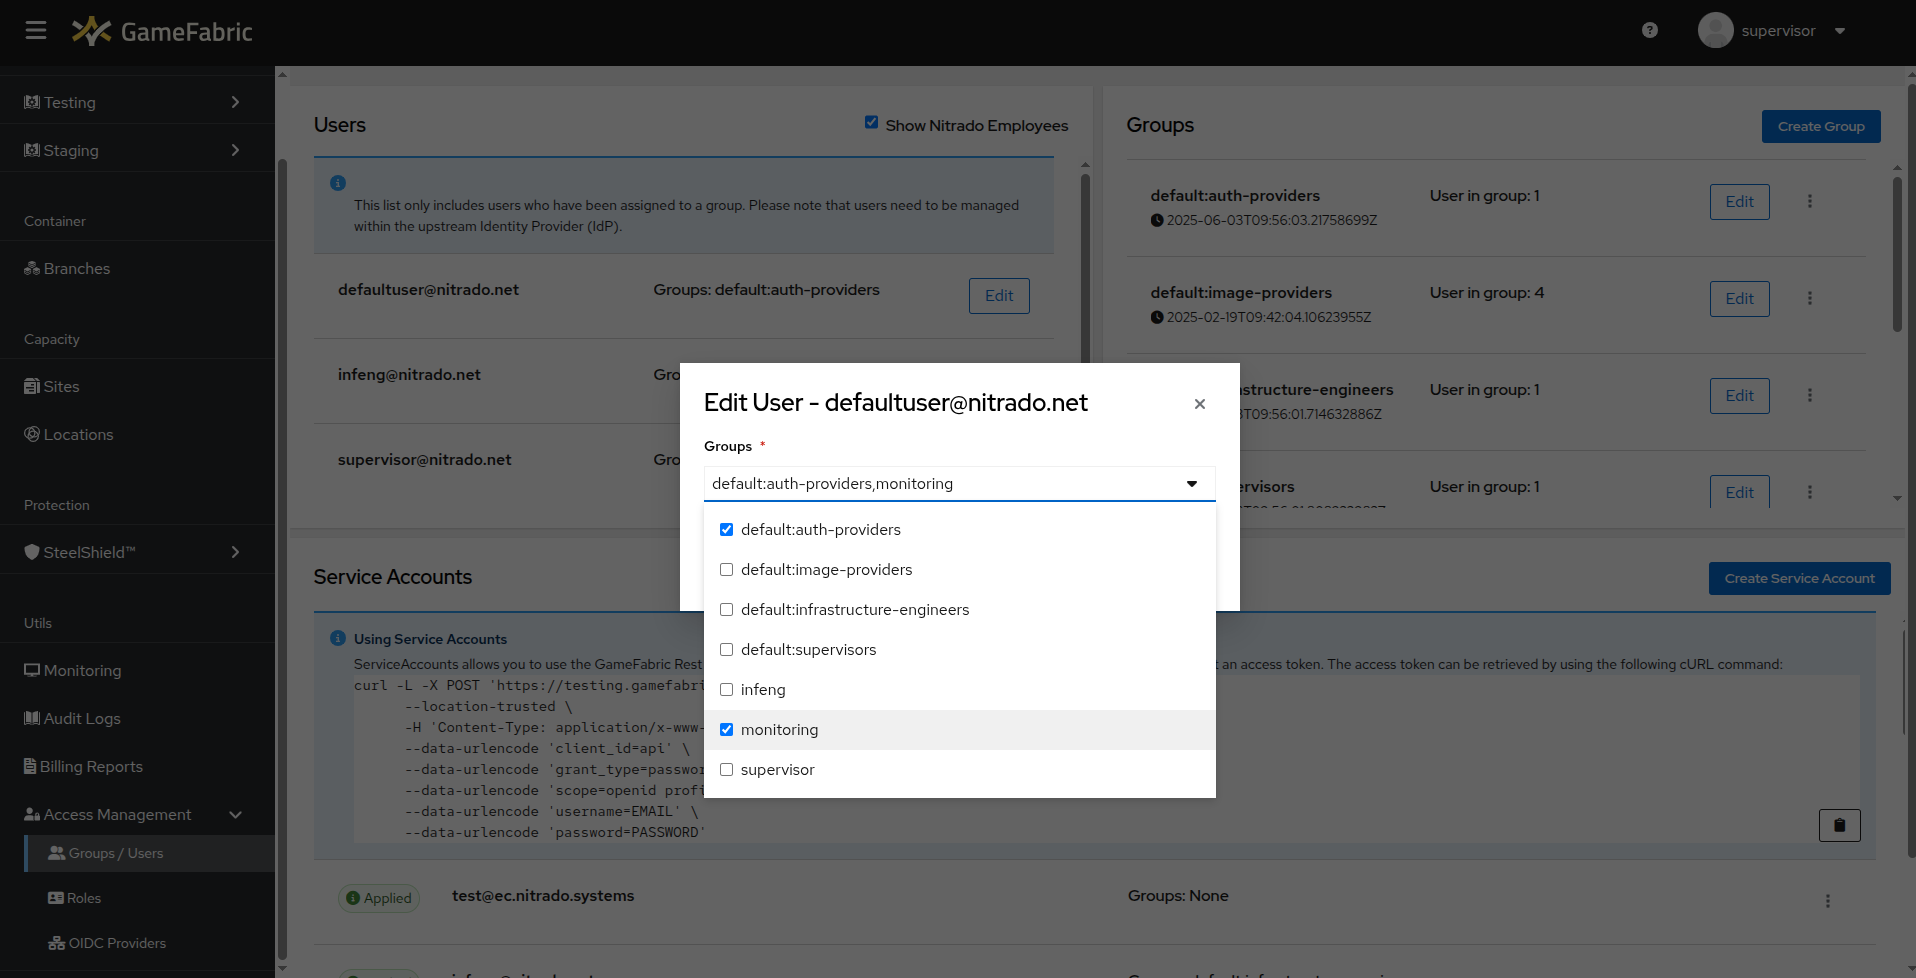
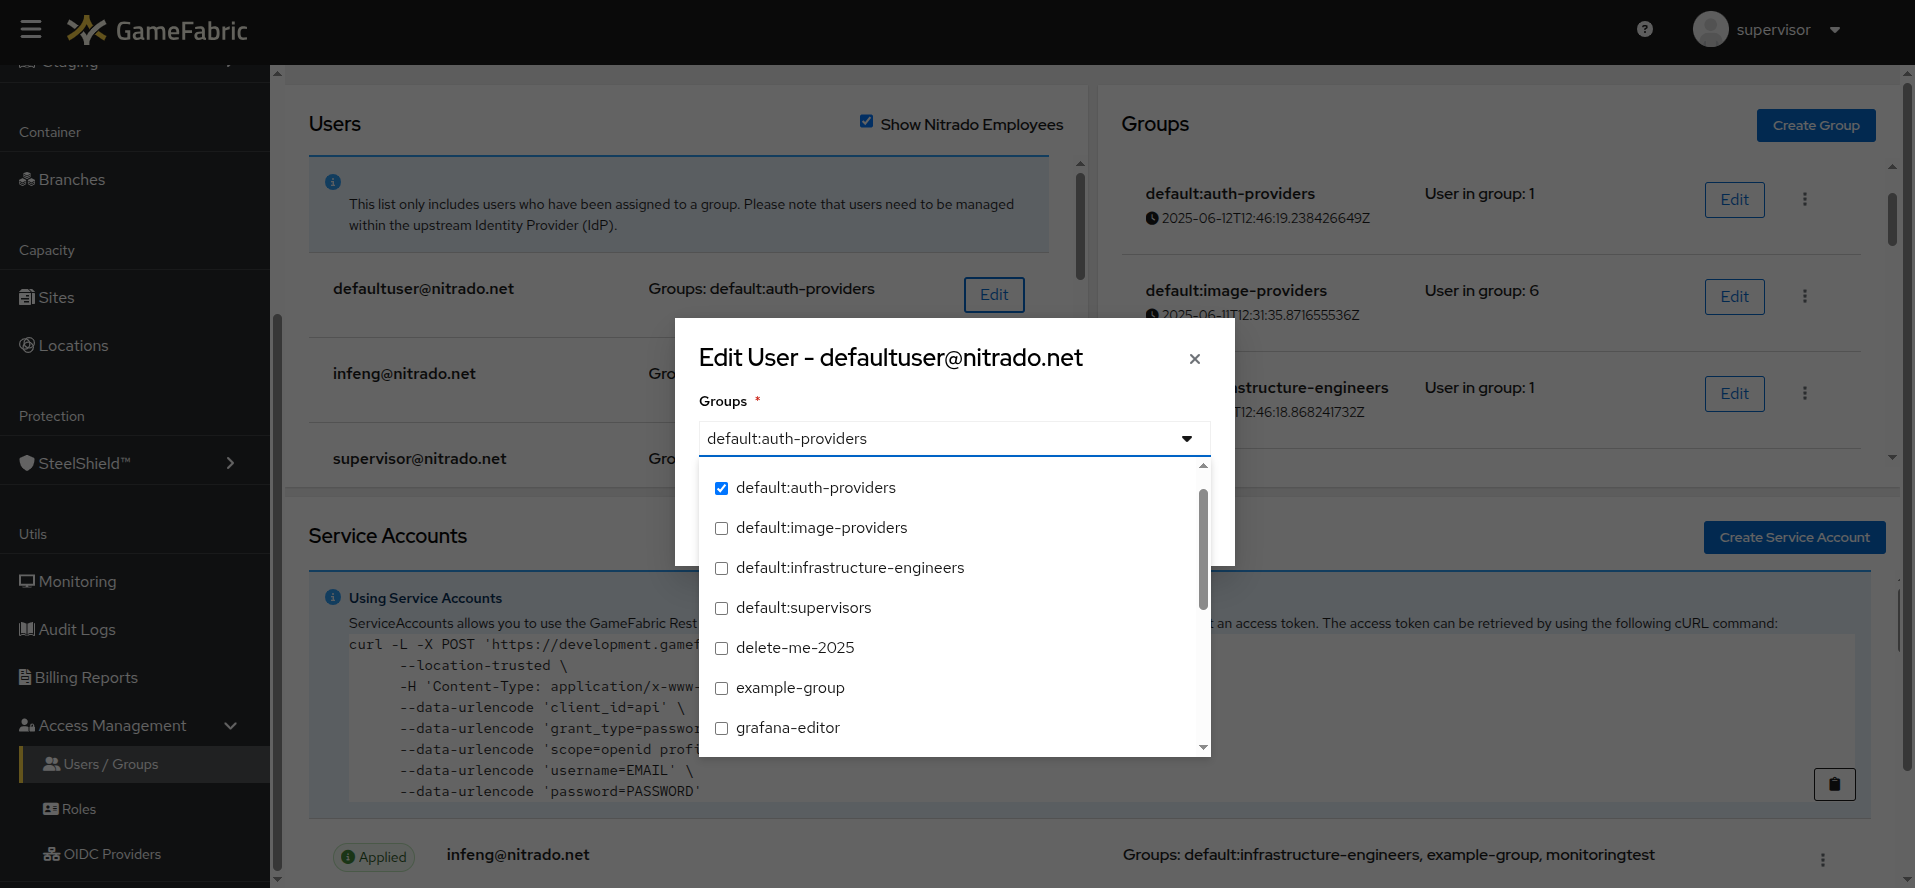
docs: update permission screenshots (#104)
* docs: update permission screenshots

* docs: fix text

* add missing

* docs: fix screenshots with supervisor as user

---------

diff --git a/src/multiplayer-servers/getting-started/editing-permissions.md b/src/multiplayer-servers/getting-started/editing-permissions.md
@@ -2,11 +2,11 @@
 
 ## Overview
 GameFabric uses RBAC (Role-Based Access Control) to manage who can access specific features and resources within your GameFabric installation. This is achieved by defining a role — a set of permissions — and assigning it to groups of users.
-To edit permissions, navigate to the **Access Management** section in the GameFabric UI and select either the **Groups/Users** or **Roles** page.
+To edit permissions, navigate to the **Access Management** section in the GameFabric UI and select either the **Users/Groups** or **Roles** page.
 
 ## Group
 A group is a collection of users that can be assigned to roles.
-Existing groups are listed on the **Groups/Users** page of the GameFabric UI, under the **Groups** section.
+Existing groups are listed on the **Users/Groups** page of the GameFabric UI, under the **Groups** section.
 From here, you can view all groups, create new ones, or edit existing groups.
 ![groups-overview.png](images/permissions/groups-overview.png)
 
@@ -26,7 +26,7 @@ To remove a user, click the **X** icon next to their email address. Then click *
 
 ## User
 A user is an individual account that can be assigned to groups.
-Users are managed on the **Groups/Users** page of the GameFabric UI, under the **Users** tab.
+Users are managed on the **Users/Groups** page of the GameFabric UI, under the **Users** tab.
 To edit a user, click the **Edit** button next to their name. In the user edit modal, select the groups to which the user should belong.
 Click **Save** to apply your changes.
 

diff --git a/src/multiplayer-servers/getting-started/setup-third-party-oauth.md b/src/multiplayer-servers/getting-started/setup-third-party-oauth.md
@@ -17,7 +17,7 @@ Before setting up a Third-Party OIDC Provider, ensure the following conditions a
 
 To be able to setup a new OIDC Provider, associated role of the active user must have "GET" and "POST" permissions for the "Providers" resource. This can be configured on RBAC page of the GameFabric UI.
 
-You may check which group(s) a user belongs to from "Groups / Users" page (under "Access Management"). You may also add/remove user(s) from/to group(s) on the "Groups / Users" page.
+You may check which group(s) a user belongs to from "Users/Groups" page (under "Access Management"). You may also add/remove user(s) from/to group(s) on the "Users/Groups" page.
 
 Navigate to "Access Management" from the Sidebar Menu, and then into the "Roles" page. In the list of roles, find the one you want to modify and click 'Edit'.
 

diff --git a/src/multiplayer-servers/getting-started/authentication.md b/src/multiplayer-servers/getting-started/authentication.md
@@ -4,7 +4,7 @@ ServiceAccounts are required to push images and interact with the GameFabric RES
 
 ## Managing Service Accounts
 
-To manage service accounts, navigate to the "Access Management" section of the WebUI, and into the "Groups/Users" page.
+To manage service accounts, navigate to the "Access Management" section of the WebUI, and into the "Users/Groups" page.
 
 ![RBAC_Groups_Users.png](images/authentication/RBAC_Groups_Users.png)
 
